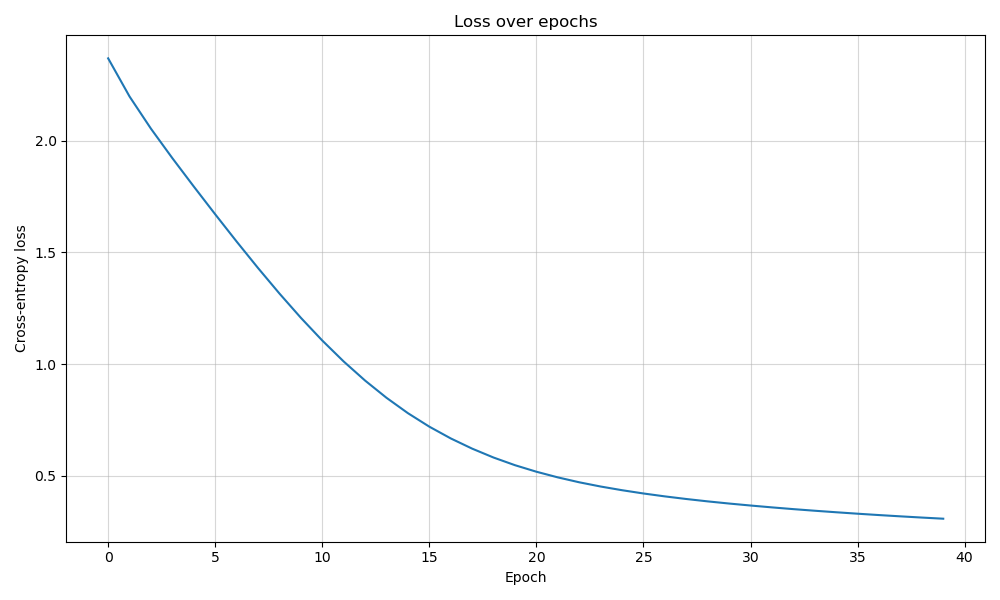
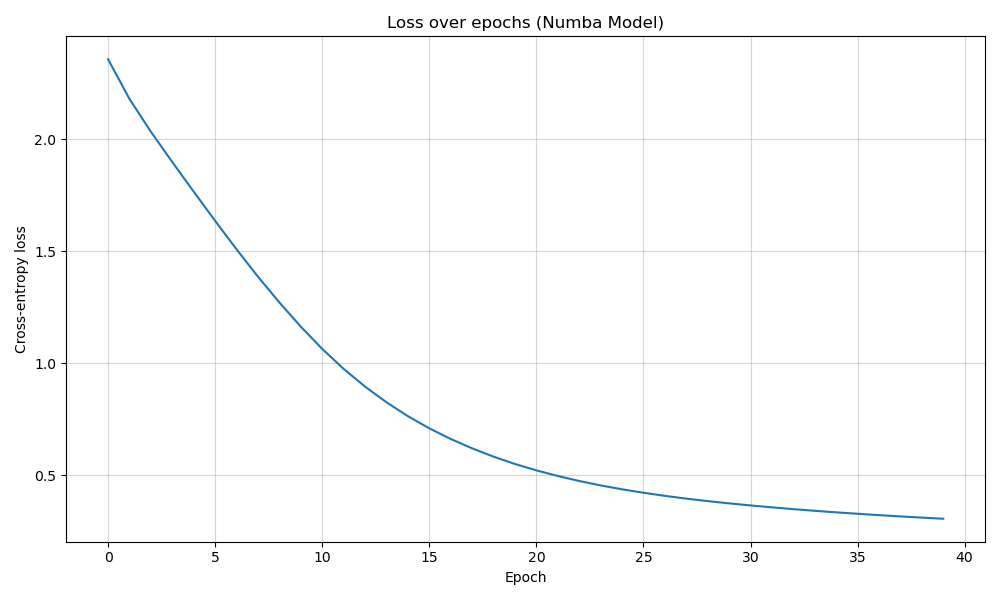
added title to plot

diff --git a/numba_optimization/training_numba.py b/numba_optimization/training_numba.py
@@ -9,6 +9,9 @@ config.NUMBA_DEFAULT_NUM_THREADS = 10
 import numpy as np
 from data_loader import load_data
 
+# Set seed
+np.random.seed(42)
+
 (X_train, y_train), (X_test, y_test) = load_data()
 
 #initialize model
@@ -21,7 +24,7 @@ nn.warmup()
 # Train the model and time the training process
 import time
 start_time = time.time()
-nn.train(X_train, y_train, learning_rate=0.001, epochs=10)
+nn.train(X_train, y_train, learning_rate=0.001, epochs=40)
 end_time = time.time()
 
 # Print the training time
@@ -31,3 +34,6 @@ print(f"Training time: {end_time - start_time:.2f} seconds")
 accuracy = nn.evaluate(X_test, y_test)
 
 print(f"Test accuracy: {accuracy:.2f}%")
+
+# Plot loss
+nn.plot_loss()

diff --git a/numba_optimization/numba_model.py b/numba_optimization/numba_model.py
@@ -281,10 +281,10 @@ class NeuralNetwork:
         plt.figure(figsize=(10, 6))
         plt.plot(self.loss_values)
         #plt.scatter(range(len(self.loss_values)), self.loss_values, color='r')
-        plt.title("Loss over epochs")
+        plt.title("Loss over epochs (Numba Model)")
         plt.xlabel("Epoch")
         plt.ylabel("Cross-entropy loss")
         plt.grid(True, alpha=0.5)
         plt.tight_layout()
         if save:
-            plt.savefig(f"plots/{filename}.{format}", format=format)
+            plt.savefig(f"numba_optimization/plots/{filename}.{format}", format=format)
